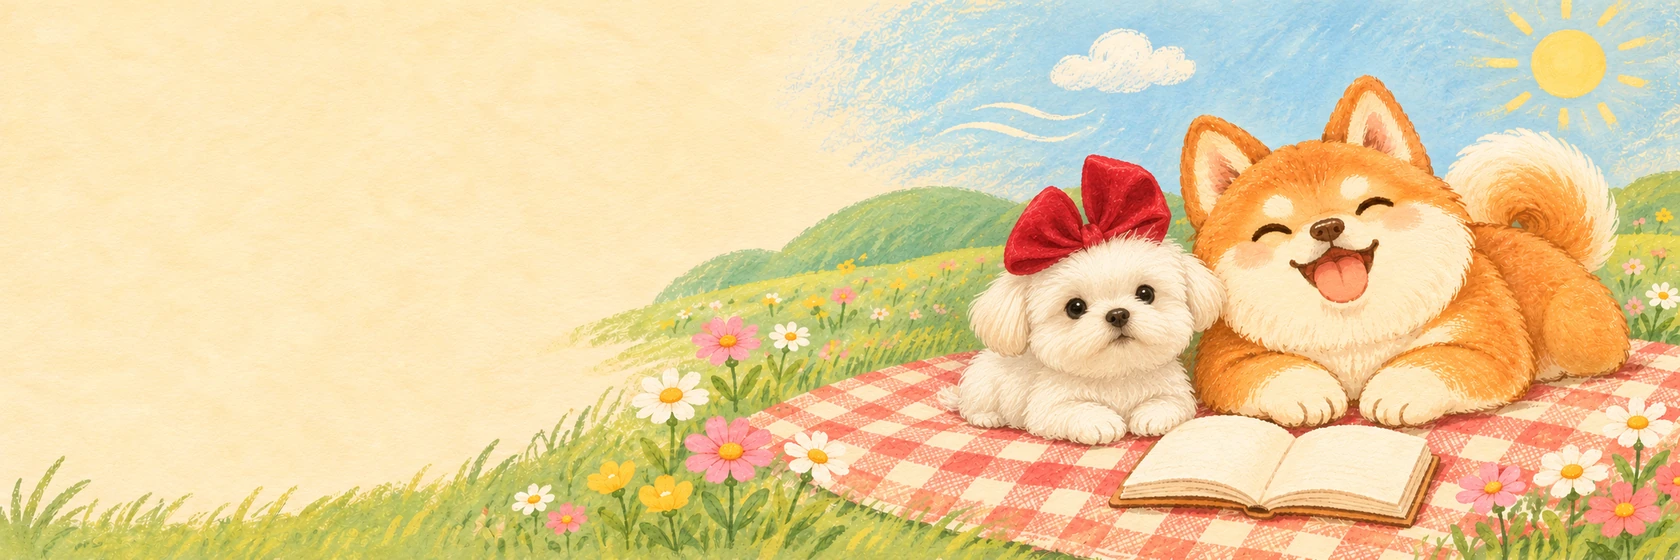
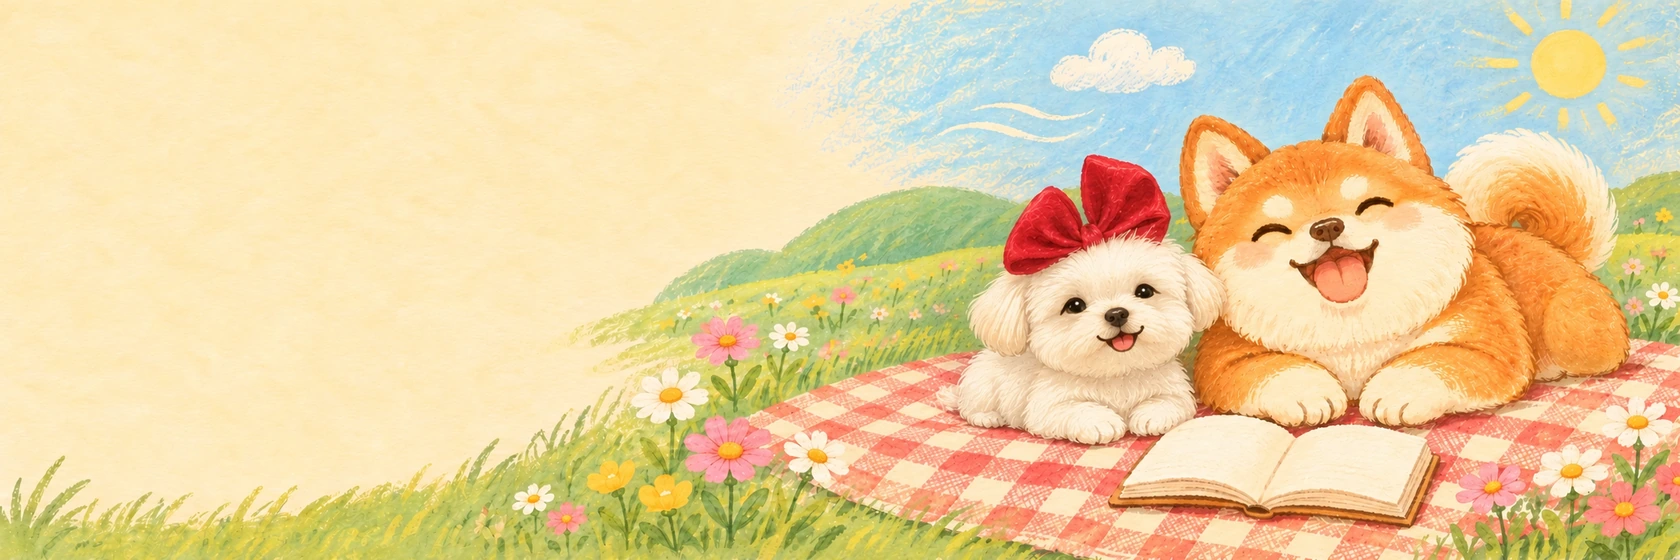
Make the dog calendar Maltese smile
Replace the reviewed banner and version its document, stylesheet and image references so one-click updates bypass the previous HTTP cache. Keep calendar behavior, authentication and sync unchanged.

diff --git a/dog-calendar/style.css b/dog-calendar/style.css
@@ -24,7 +24,7 @@ svg{display:block;width:1em;height:1em;flex-shrink:0}
 .settings-btn:hover,.calendar-nav button:hover,.undo-btn:hover,.demo-note:hover{background-color:#f0f0df}
 .workspace{padding:27px 0 44px}
 .hero{position:relative;isolation:isolate;display:flex;align-items:center;min-height:clamp(225px,23.5vw,292px);background:#f9e8be;overflow:hidden;border-radius:22px;border:1.5px solid #d9c9a2;box-shadow:0 4px 0 #d4c9a04a}
-.hero-art{position:absolute;inset:0;z-index:-1;background-image:url('assets/picnic.webp');background-size:cover;background-position:center 54%;background-repeat:no-repeat}
+.hero-art{position:absolute;inset:0;z-index:-1;background-image:url('assets/picnic.webp?v=81');background-size:cover;background-position:center 54%;background-repeat:no-repeat}
 .hero-copy{margin:-7px 0 0;padding-left:5.6%;width:57%;position:relative}
 .hero-date{display:inline-flex;gap:7px;font-size:.86rem;color:#665c3c;font-weight:650;letter-spacing:.025em;padding:5px 10px;border:1px solid #bbab7d89;border-radius:7px;background:#fff6dba6;transform:rotate(-1deg)}
 .hero-date svg{height:16px;width:16px}
@@ -122,7 +122,7 @@ svg{display:block;width:1em;height:1em;flex-shrink:0}
 .lock-mast{display:flex;align-items:center;justify-content:flex-start;width:min(1136px,calc(100% - 60px));min-height:65px;margin:0 auto}
 .lock-home{color:inherit;text-decoration:none}
 .lock-card{width:min(464px,calc(100% - 34px));margin:clamp(18px,7vh,80px) auto 0;overflow:hidden}
-.lock-cover{display:flex;width:100%;min-height:150px;aspect-ratio:2.7;align-items:center;background:#f4e6bf url('assets/picnic.webp') center center /cover no-repeat;border-bottom:1px solid #e5dbc0}
+.lock-cover{display:flex;width:100%;min-height:150px;aspect-ratio:2.7;align-items:center;background:#f4e6bf url('assets/picnic.webp?v=81') center center /cover no-repeat;border-bottom:1px solid #e5dbc0}
 .lock-cover h1{font:740 clamp(1.8rem,5vw,2.5rem)/1.2 var(--round);color:#4f4026;letter-spacing:.025em;margin:0;padding-left:7%}
 .lock-form{display:grid;gap:12px;padding:24px 26px 26px}
 .lock-form>label:first-child{font-size:.96rem;color:var(--ink);font-weight:650}

diff --git a/index.html b/index.html
@@ -1031,7 +1031,7 @@
       <a class="tool-btn wide" href="./smart-home/panel-mute.html" aria-label="打开中控静音设置" style="background:linear-gradient(135deg,rgba(242,234,255,.66),rgba(225,238,255,.58))">
         <span>中控静音</span><span class="emoji" aria-hidden="true">🌙🔕</span>
       </a>
-      <a class="tool-btn wide" href="./dog-calendar/" aria-label="打开狗狗日历" style="background:linear-gradient(135deg,rgba(255,229,227,.66),rgba(255,243,208,.58))">
+      <a class="tool-btn wide" href="./dog-calendar/?v=81" aria-label="打开狗狗日历" style="background:linear-gradient(135deg,rgba(255,229,227,.66),rgba(255,243,208,.58))">
         <span>狗狗日历</span><span class="emoji" aria-hidden="true">🐾</span>
       </a>
     </section>

diff --git a/dog-calendar/index.html b/dog-calendar/index.html
@@ -7,7 +7,7 @@
   <meta http-equiv="Content-Security-Policy" content="default-src 'self'; script-src 'self'; style-src 'self' 'unsafe-inline'; img-src 'self' data:; font-src 'self'; connect-src https://lrtglriomkxjxmxpzivj.supabase.co; form-action 'none'; base-uri 'none'; object-src 'none'">
   <meta name="theme-color" content="#fbf8ee">
   <title>狗狗日历 · LW &amp; 5</title>
-  <link rel="stylesheet" href="style.css">
+  <link rel="stylesheet" href="style.css?v=81">
   <script src="app.js" defer></script>
 </head>
 <body>

diff --git a/sw.js b/sw.js
@@ -1,4 +1,4 @@
-const CACHE = 'lw5-home-v80-dog-calendar';
+const CACHE = 'lw5-home-v81-happy-calendar-banner';
 const DEMO_PAGE = './smart-home/lights-demo.html';
 const DEMO_VIDEO = './assets/lights-film/demo-v1.mp4';
 const ASSETS = [

diff --git a/README.md b/README.md
@@ -30,7 +30,7 @@
 - 私有清单格式：`{"format":"lw5-supplements","version":1,"items":[{"name":"自定义名称","description":"自己的用量或提醒"}, ...]}`，必须恰好四项；名称最多 60 字、说明最多 240 字、文件小于 16 KB。
 - 保存仅对当前浏览器、当前站点生效。普通浏览器和桌面 PWA 不假定共享存储。没有本地清单时，一键更新后直接显示四个通用名称与获准公开的默认说明，无需导入；自定义说明不会跨存储环境同步。清除网站数据会移除这些设置和记录。一键更新仅刷新应用缓存，会保留本地记录。
 
-发布沿用原 GitHub Pages 的 `main` 根目录；更改前需获准发布。Service Worker 发布缓存名为 `lw5-home-v80-dog-calendar`，补剂静态资源已加入离线清单。
+发布沿用原 GitHub Pages 的 `main` 根目录；更改前需获准发布。Service Worker 发布缓存名为 `lw5-home-v81-happy-calendar-banner`，补剂静态资源已加入离线清单。
 
 
 私人清单可通过 `supplements/setup.html#s=…` 一次带入：fragment 内为 UTF-8 JSON 的 base64url，结构与私有 JSON 相同，仅包含名称和说明。独立页最先移除 fragment，仅运行内联代码；CSP 禁止网络连接与外部资源，没有分析脚本。新浏览器自动写入本地配置，再进入 `#supplements` 面板；相同配置重复打开不会改动记录；已有不同配置时先保留，需要明确点击才能替换。私人链接不进仓库、公开文档或通用审查包，也不能当普通站点链接转发。它不加密，持有链接的人可以读清单；浏览器扩展和分享该链接的渠道不属于页面能控制的范围。
